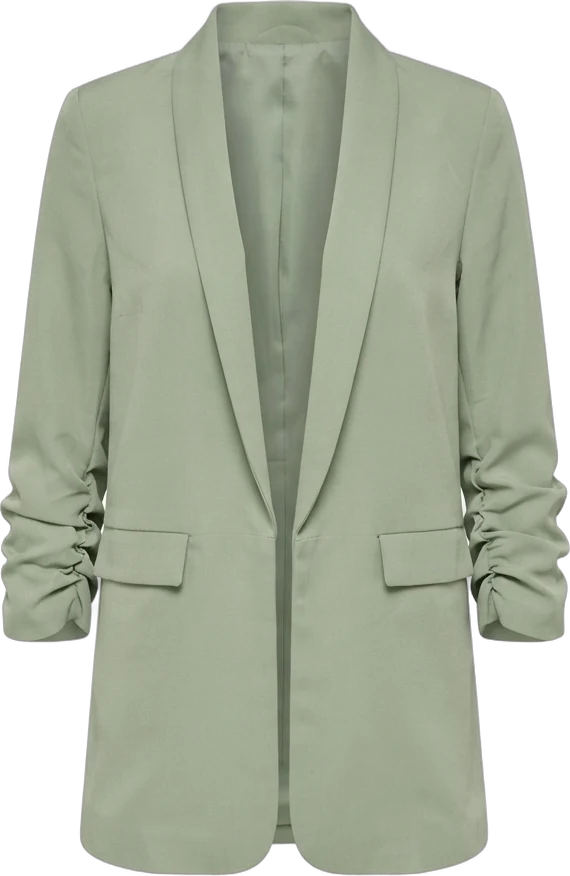
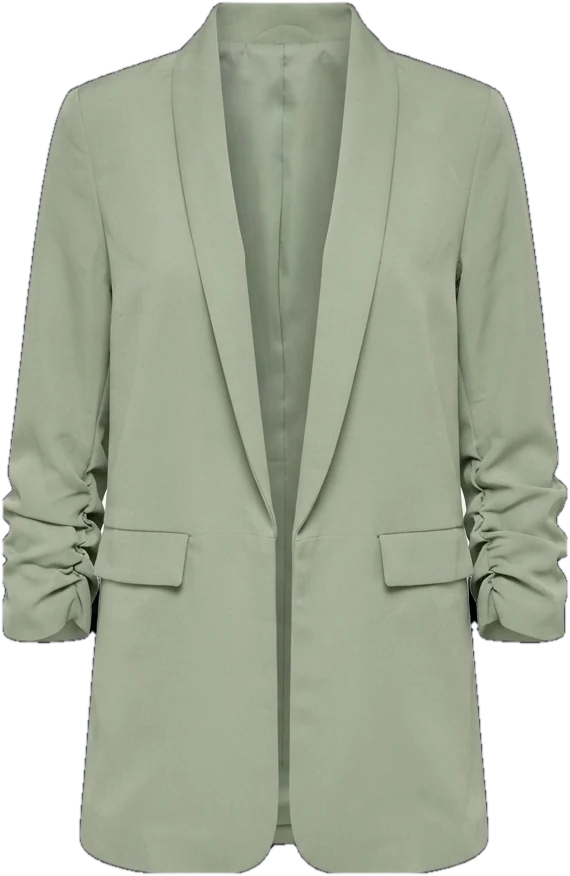
Détourage : vêtements blancs pleinement opaques
Claude-Session: https://claude.ai/code/session_01DYeu4AaM2UGQj5ZDCmfRiN

diff --git a/index.html b/index.html
@@ -699,7 +699,7 @@
   main, section, .section{background:transparent !important;}
   /* ---------- articles sans cadre blanc : le fond blanc des photos se fond dans la page ---------- */
   .product-img{background:transparent !important; border:none !important; box-shadow:none !important;}
-  .product-img img.cutout{object-fit:contain; padding:6px; filter:drop-shadow(0 8px 14px rgba(30,20,60,.18));}
+  .product-img img.cutout{object-fit:contain; padding:6px; filter:drop-shadow(0 6px 10px rgba(30,20,60,.12));}
   /* ---------- barres de catégories sur le fond photo ---------- */
   .catbar{background:rgba(250,248,255,.72) !important; -webkit-backdrop-filter:blur(10px); backdrop-filter:blur(10px); border-radius:16px; padding:10px 12px !important; margin-bottom:10px;}
   .subbar{margin:0 0 14px !important; padding:0 2px;}
@@ -1209,7 +1209,7 @@
   let scId = null;
   // Photos détourées (fond transparent) hébergées sur le site
   const CUTOUTS = new Set([14, 15, 17, 18, 19, 20, 21, 22, 23, 24, 25, 26, 27, 28]);
-  const imgSrc = p => CUTOUTS.has(p.id) ? `cutouts/${p.id}.webp` : p.image_url;
+  const imgSrc = p => CUTOUTS.has(p.id) ? `cutouts/${p.id}.webp?v=2` : p.image_url;
 
   // ---------- Tailles : guide indicatif ----------
   const SIZE_GUIDE = {
